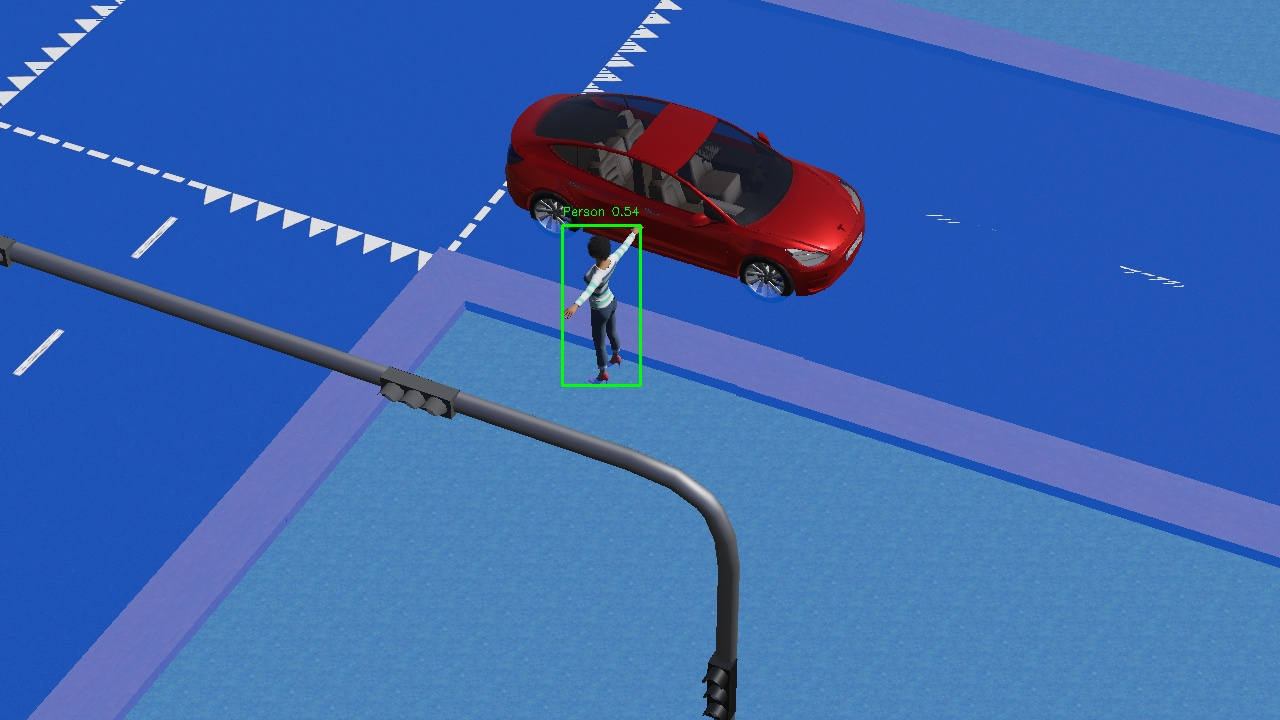
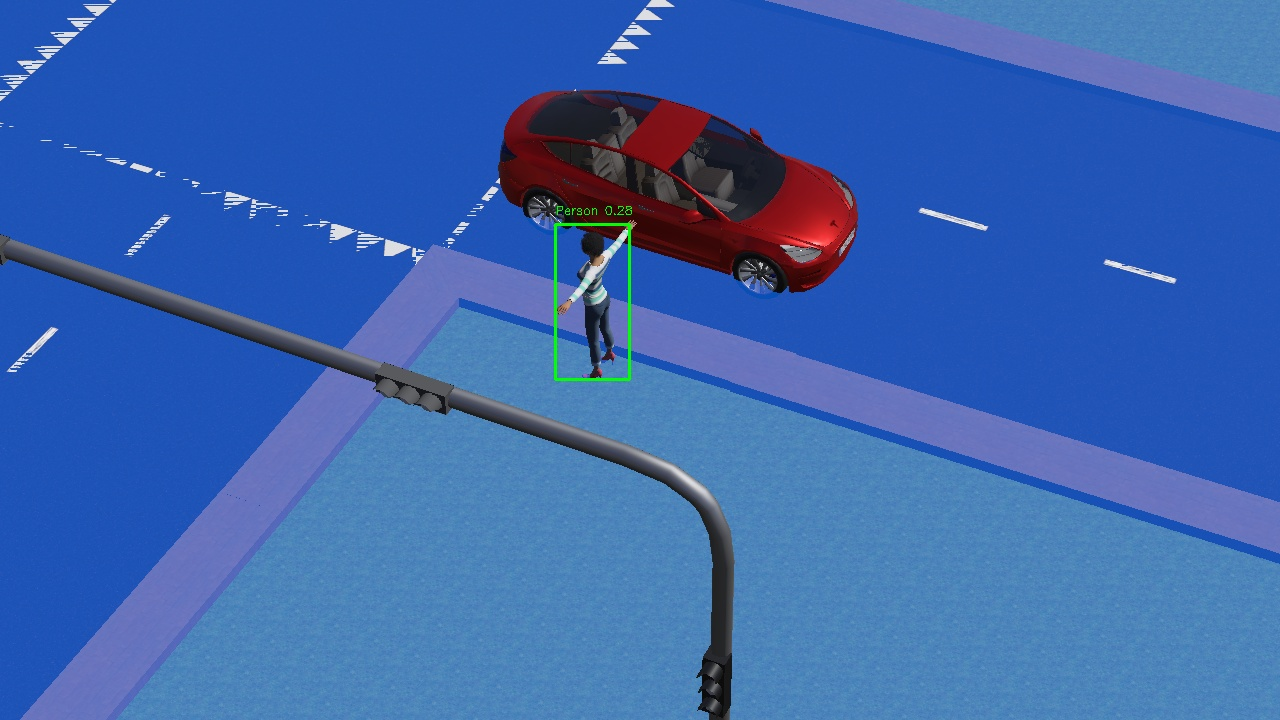
testing different YOLO conf levels

diff --git a/project/controllers/patrol_agent/patrol_agent.py b/project/controllers/patrol_agent/patrol_agent.py
@@ -173,6 +173,7 @@ class Mavic(Robot):
 
             if self.waypoints[self.target_index]['end']:
                 self.end_of_search = True
+                self.waypoints = [{'x': 0, 'y':0}]
 
             if self.target_index > len(self.waypoints) - 1 and not self.end_of_search:
                 self.target_index = 0
